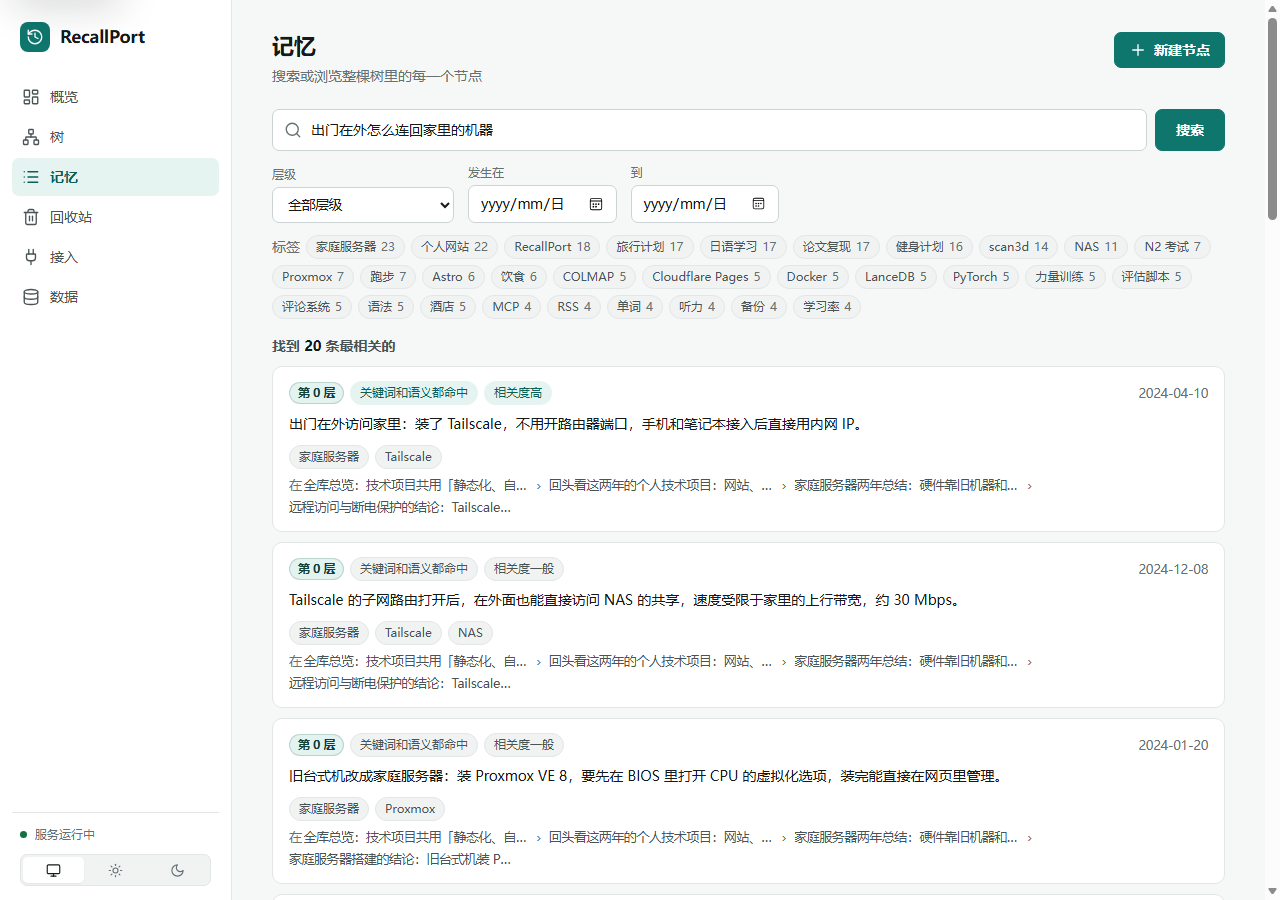
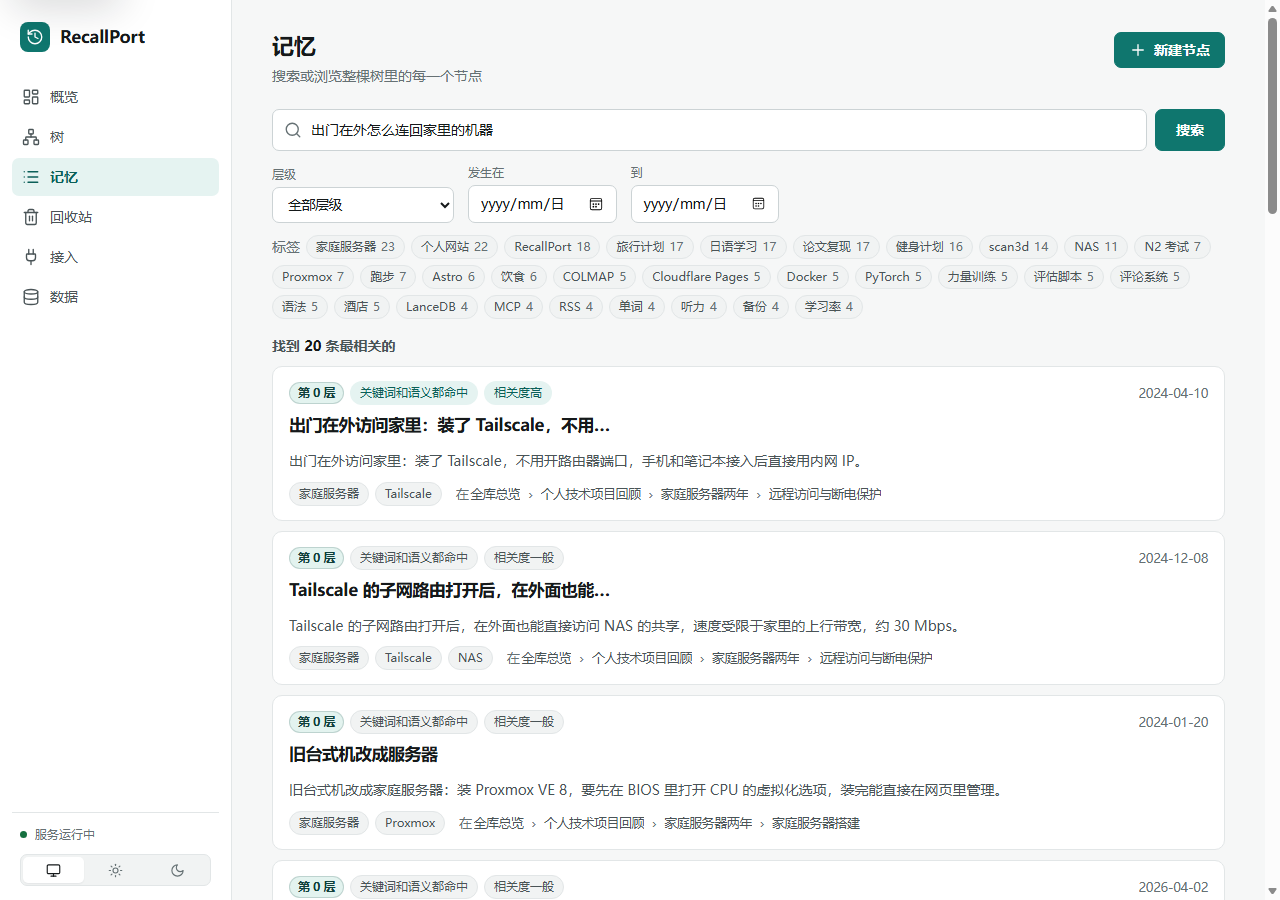
docs: 1.1.0 界面截图按新树页和标题重拍；面包屑跟随选中的节点

diff --git a/web/tree.js b/web/tree.js
@@ -687,7 +687,7 @@
     return node;
   };
   const updateCrumbs = () => {
-    const at = focus || viewTile();
+    const at = focus || selected || viewTile();
     const key = `${at.id}|${focus ? 'f' : ''}`;
     if (key === crumbKey) return;
     crumbKey = key;
